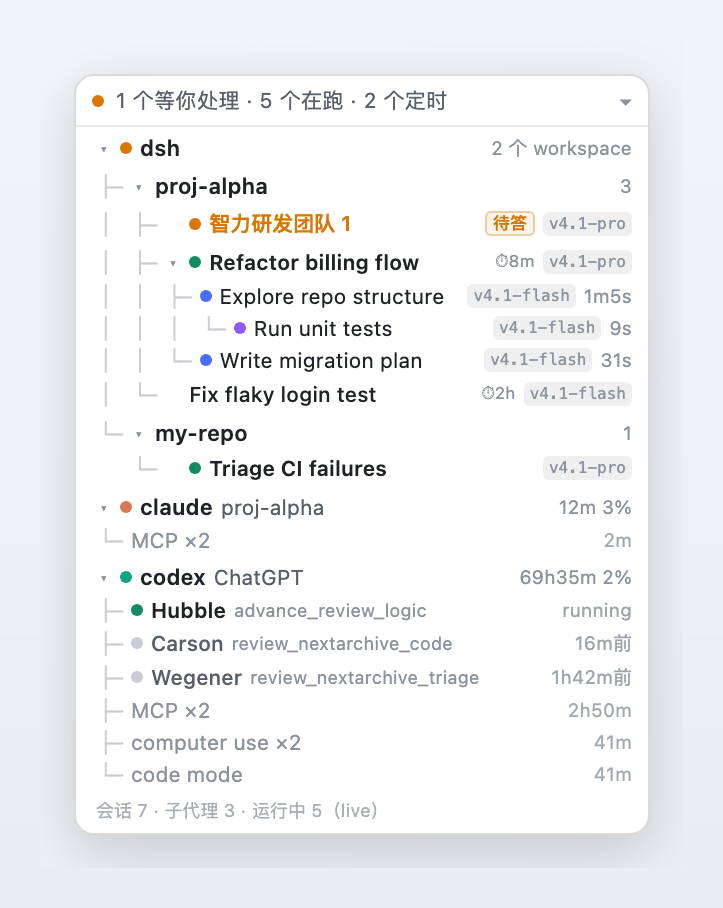
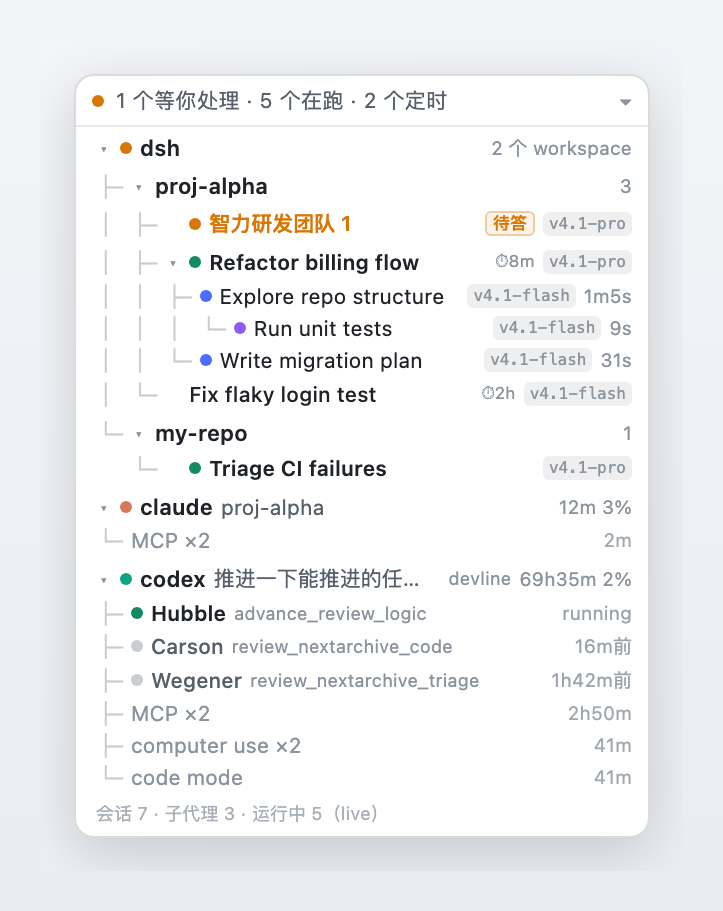
feat: codex 会话标题作为行名

diff --git a/index.js b/index.js
@@ -271,6 +271,88 @@ async function recentCodexMetas(now) {
   return metas;
 }
 
+/** 这些前缀是 codex 自己塞的上下文包裹，不算用户真正说的话。 */
+const PROMPT_SKIP =
+  /^\s*(<(environment_context|app-context|user_instructions|user-instructions|system|developer)|#\s*AGENTS\.md|<INSTRUCTIONS)/i;
+
+/** 从一行 rollout 事件里取「用户真正说的那句话」，取不到返回空串。 */
+export function userPromptOf(event) {
+  if (event === null || typeof event !== 'object') return '';
+  const payload = event.payload !== null && typeof event.payload === 'object' ? event.payload : {};
+  if (event.type === 'response_item' && payload.role === 'user') {
+    const content = Array.isArray(payload.content) ? payload.content : [];
+    for (const item of content) {
+      const text = item !== null && typeof item === 'object' && typeof item.text === 'string' ? item.text : '';
+      if (text !== '' && !PROMPT_SKIP.test(text)) return text;
+    }
+    return '';
+  }
+  if (event.type === 'event_msg' && payload.type === 'user_message' && typeof payload.message === 'string') {
+    return PROMPT_SKIP.test(payload.message) ? '' : payload.message;
+  }
+  return '';
+}
+
+/** 压成一行、截短，用来当行标题。 */
+export function shortPrompt(text, limit = 36) {
+  const flat = String(text || '').replace(/\s+/g, ' ').trim();
+  if (flat === '') return '';
+  return flat.length > limit ? `${flat.slice(0, limit - 1)}…` : flat;
+}
+
+/** 读 rollout 里第一条用户消息（最多读 2MB），拿不到就空串。 */
+export async function firstUserPrompt(path) {
+  let handle;
+  try {
+    handle = await open(path, 'r');
+  } catch (err) {
+    return '';
+  }
+  try {
+    let buffer = '';
+    const chunk = Buffer.allocUnsafe(65536);
+    let total = 0;
+    while (total < 2 * 1024 * 1024) {
+      const { bytesRead } = await handle.read(chunk, 0, chunk.length, total);
+      if (bytesRead <= 0) break;
+      total += bytesRead;
+      buffer += chunk.subarray(0, bytesRead).toString('utf8');
+      let newline = buffer.indexOf('\n');
+      while (newline >= 0) {
+        const line = buffer.slice(0, newline);
+        buffer = buffer.slice(newline + 1);
+        newline = buffer.indexOf('\n');
+        if (line.trim() === '') continue;
+        let event;
+        try {
+          event = JSON.parse(line);
+        } catch (err) {
+          continue;
+        }
+        const prompt = userPromptOf(event);
+        if (prompt !== '') return prompt;
+      }
+    }
+    return '';
+  } catch (err) {
+    return '';
+  } finally {
+    await handle.close().catch(() => {});
+  }
+}
+
+const titleCache = new Map();
+
+/** 某条 rollout 的会话标题（首条用户消息，截短；按 path+mtime 缓存）。 */
+export async function promptTitleOf(root) {
+  if (root === undefined || typeof root.path !== 'string') return '';
+  const hit = titleCache.get(root.path);
+  if (hit !== undefined && hit.mtime === root.mtime) return hit.title;
+  const title = shortPrompt(await firstUserPrompt(root.path));
+  titleCache.set(root.path, { mtime: root.mtime, title });
+  return title;
+}
+
 /** 导出给自检/排查用：本机最近 rollout 的 meta 列表。 */
 export async function collectCodexMetas(now = Date.now()) {
   return await recentCodexMetas(now);
@@ -318,7 +400,8 @@ export function codexThreadsUnder(metas, rootId, now) {
  */
 export function pickCodexRoot(metas, cwd, options = {}) {
   if (!Array.isArray(metas)) return undefined;
-  const roots = metas.filter((meta) => meta && !meta.isSubagent);
+  const exclude = options !== null && typeof options === 'object' && options.exclude instanceof Set ? options.exclude : null;
+  const roots = metas.filter((meta) => meta && !meta.isSubagent && (exclude === null || !exclude.has(meta.id)));
   if (roots.length === 0) return undefined;
   const sorted = roots.slice().sort((a, b) => b.mtime - a.mtime);
   if (typeof cwd === 'string' && cwd !== '' && cwd !== '/') {
@@ -358,20 +441,27 @@ async function snapshot() {
   const rows = buildProcessRoots(parseProcessTable(table));
   const codexMetas = rows.some((row) => row.kind === 'codex') ? await recentCodexMetas(now) : [];
   const processes = [];
+  const claimedRoots = new Set();
   for (const row of rows) {
     let cwd = await cwdOf(row.pid);
     if (cwd === '' || cwd === '/') cwd = argCwd(row.command) || cwd;
     const root =
       row.kind === 'codex'
-        ? pickCodexRoot(codexMetas, cwd, { preferDesktop: /ChatGPT\.app|CodexCLI\.app|Codex\.app/i.test(row.command) })
+        ? pickCodexRoot(codexMetas, cwd, {
+            preferDesktop: /ChatGPT\.app|CodexCLI\.app|Codex\.app/i.test(row.command),
+            exclude: claimedRoots,
+          })
         : undefined;
+    if (root !== undefined) claimedRoots.add(root.id);
+    const title = root === undefined ? '' : await promptTitleOf(root);
     processes.push({
       pid: row.pid,
       kind: row.kind,
       elapsedSeconds: row.elapsedSeconds,
       cpu: row.cpu,
       cwd,
-      label: displayLabel(row.command, cwd),
+      label: title !== '' ? title : displayLabel(row.command, cwd),
+      sessionTitle: title,
       children: row.children,
       threads: root === undefined ? [] : codexThreadsUnder(codexMetas, root.id, now),
     });

diff --git a/client.js b/client.js
@@ -787,9 +787,9 @@ window.__ModuleLoader__.load({
                 if (children.length === 0) return;
                 toggle(procKey);
               },
-              title: `${proc.kind} · pid ${proc.pid}\n${proc.cwd || ''}${
-                children.length > 0 ? `\n${children.length} 个子进程` : ''
-              }`,
+              title: `${proc.kind} · pid ${proc.pid}${
+                proc.sessionTitle ? `\n${proc.sessionTitle}` : ''
+              }${proc.cwd ? `\n${proc.cwd}` : ''}${children.length > 0 ? `\n${children.length} 个子进程` : ''}`,
               style: {
                 display: 'flex',
                 alignItems: 'center',
@@ -811,6 +811,13 @@ window.__ModuleLoader__.load({
               fontSize: 10.5,
               color: 'var(--dsw-alias-label-secondary)',
             }),
+            proc.sessionTitle && proc.cwd && proc.cwd !== '/' && proc.cwd !== ''
+              ? clampSpan(baseName(proc.cwd), {
+                  flex: 'none',
+                  fontSize: 9,
+                  color: 'var(--dsw-alias-label-tertiary)',
+                })
+              : null,
             h(
               'span',
               { style: { flex: 'none', fontSize: 9.5, color: 'var(--dsw-alias-label-tertiary)' } },

diff --git a/README.md b/README.md
@@ -27,6 +27,9 @@
 - **本机外部 agent 进程（也是树）**：插件宿主半部提供只读接口，用 `ps` + `lsof` 找到本机正在跑的 **claude / codex CLI**，
   再按 `ppid` 把它们的子进程挂成子树（如 codex 的 `computer use ×4` / `MCP ×3` / `code mode`）。它们是**和 `dsh` 同级的顶层 agent 节点**，行规格完全一致，可折叠。
   ChatGPT 桌面端里的 `Codex Framework` 辅助进程本身不会被误认成 CLI。
+- **codex 的行名是它自己的会话标题**：从 rollout 里取第一条**真实**用户消息（跳过 `environment_context` /
+  `AGENTS.md` 这类上下文注入）当行名，比如 `codex 推进一下能推进的任务…  devline`；取不到才回落到目录名。
+  多个 codex 进程同 cwd 时会各认领一条会话，不会三行同名。
 - **codex 的子对话也看得见**：读 codex 自己的会话记录（`~/.codex/sessions/**/rollout-*.jsonl` 的第一行
   `session_meta`），按 `parent_thread_id` 还原它的 subagent 线程树，挂在 codex 那行下面——
   `● Hubble advance_review_logic  running` / `● Carson review_nextarchive_code  16m前`。
@@ -77,6 +80,7 @@ dsh plugin --profile web add "$PWD"
 | `├─ ▾ ● Refactor billing flow  ⏱8m  v4.1-pro` | 顶层对话在跑（绿点），8 分钟后有下一次定时，用 v4.1-pro |
 | `│  ├─ ● Explore repo structure  v4.1-flash  1m5s` | 它的 subagent（蓝点），已跑 1 分 05 秒 |
 | `│  │  └─ ● Run unit tests  v4.1-flash  9s` | 孙代理（紫点） |
+| `▾ ● codex 推进一下能推进的任务…  devline` | codex 的**会话标题**（首条真实用户消息）+ 目录名；不是目录名兜底 |
 | `▾ ● claude proj-alpha         12m 3%` | 本机另一个 agent（和 `dsh` 同级）：claude CLI，工作目录 `proj-alpha`，跑了 12 分钟、3% CPU |
 | `│  └─ computer use ×2            41m` | 它的子进程，自动按种类归组（`×N` + 最长的那个时长） |
 | `│  ├─ ● Hubble advance_review_logic  running` | codex 的子对话（subagent 线程）：昵称 + agent 路径，右边是「正在工作 / 最后活动多久前」 |

diff --git a/README.en.md b/README.en.md
@@ -22,6 +22,7 @@ at which depth, on which model, for how long, and when its next scheduled run fi
 - **Scheduled-task countdown** — reads `schedule.catalog()` from Automation tasks (the `remote.schedule` service, with a `ctx.get` fallback while its namespace is not mounted yet); sessions driven by a schedule are listed even while idle, with `⏱8m / ⏱2h / ⏱3d` and a `N running · M scheduled` headline.
 - **Sessions that need your call come first** — when an agent asks a question, waits for an approval, or waits for a plan review (`pendingInteraction` = `question` / `approval` / `plan-review`), that row turns **amber**, carries a `待答 / 待批 / 待审` badge and **sorts above running rows**. Previously such a session disappeared because it was no longer running.
 - **Local external agent processes, also as a tree** — the plugin's host half exposes a read-only endpoint that finds running **claude / codex CLIs** via `ps` + `lsof` and nests their children by `ppid` (e.g. codex's `computer use ×4` / `MCP ×3` / `code mode`). They show up as **top-level agents next to `dsh`**, with exactly the same row spec. ChatGPT desktop's `Codex Framework` helpers are not mistaken for CLIs themselves.
+- **codex rows are named after their own session** — the first *real* user message from the rollout (skipping `environment_context` / `AGENTS.md` injections), e.g. `codex 推进一下能推进的任务…  devline`, falling back to the directory name; processes sharing one cwd claim distinct sessions, so rows never share a name.
 - **codex sub-conversations are visible too** — reads codex's own session records (`~/.codex/sessions/**/rollout-*.jsonl`, first `session_meta` line) and rebuilds its subagent threads by `parent_thread_id`, hanging them under the codex row: `● Hubble advance_review_logic running` / `● Carson review_nextarchive_code 16m前`. Local read-only, no network, nothing leaves the machine. (Claude's sidechain layout differs and is not parsed yet.)
 - **Click to jump** — `subagentAddress()` + `uiWorkspace.openSession()`, including subagents.
 - **Draggable, remembers its position** — stored in `localStorage`.

diff --git a/CHANGELOG.md b/CHANGELOG.md
@@ -4,6 +4,7 @@
 
 - **「等你拍板」的会话不再消失**：读实时状态里的 `pendingInteraction`（`question` / `approval` / `plan-review`），这类会话即使没在跑也会列出，琥珀色圆点 + `待答 / 待批 / 待审` 徽标，排在在跑的前面；标题栏变成「N 个等你处理 · M 个在跑 · K 个定时」。
 - **定时任务显示修复**：`remote.schedule` 是别的客户端插件挂上来的命名空间服务，只读 `ctx.remote.schedule` 在它还没挂上时会拿到 undefined，导致定时任务整段消失；现在用 `ctx.get('remote.schedule')` 兜底并继续轮询。
+- **codex 行名改成会话标题**：从 rollout 里取第一条真实用户消息（跳过 `environment_context` / `AGENTS.md` 注入）当行名，取不到才回落目录名；右侧加灰色目录小标签；同 cwd 的多个 codex 进程按时间各认领一条会话，避免多行同名。
 - **codex 的子对话**：读 `~/.codex/sessions/**/rollout-*.jsonl` 的 `session_meta`，按 `parent_thread_id` 还原 subagent 线程树，挂在 codex 行下面（昵称 + agent 路径 + 最后活动时间 / `running`）；按 cwd、cwd 前缀、桌面端 originator 三级匹配主线程。
 - 顶层改成「本机 agent 列表」：`dsh` 与 `claude` / `codex` 同级，各自展开自己的子树；行规格统一。
 

diff --git a/docs/manual.md b/docs/manual.md
@@ -152,6 +152,18 @@ codex（CLI 和 ChatGPT 桌面端）每开一个会话都会写一条 rollout：
   ChatGPT 桌面端进程 cwd 常常是 `/`，这时优先挑 `originator` 带 `Desktop` 的会话。
 - 最多 8 个子对话、最深 3 层。只读本机、不联网、不外发。
 
+### 6.3 codex 那行的名字
+
+行名不是目录名，而是**这条 codex 会话的第一句真实需求**（跳过 codex 自己塞的 `environment_context`、
+`AGENTS.md instructions` 这类上下文），后面跟一个灰色的目录小标签：
+
+```
+▾ ● codex 推进一下能推进的任务，看看流水线…   devline   69h35m 2%
+```
+
+- 取不到（rollout 刚建、还没写用户消息）才回落到目录名 / `ChatGPT`。
+- 同一 cwd 下有多个 codex 进程时，按时间各认领一条会话，所以不会出现两行同名。
+
 ## 7. 交互
 
 | 操作 | 效果 |

diff --git a/docs/manual.en.md b/docs/manual.en.md
@@ -151,6 +151,18 @@ hanging it under the codex row:
   processes the cwd is usually `/`, so a session whose `originator` contains `Desktop` wins.
 - At most 8 sub-conversations, 3 levels deep. Local read-only, no network.
 
+### 6.3 The codex row's name
+
+The row is named after **the first real request of that codex session** (skipping codex's own
+`environment_context` / `AGENTS.md instructions` injections), followed by a grey directory chip:
+
+```
+▾ ● codex 推进一下能推进的任务，看看流水线…   devline   69h35m 2%
+```
+
+- Falls back to the directory name / `ChatGPT` only when the rollout has no user message yet.
+- With several codex processes in one cwd, each claims a distinct session by recency, so rows never share a name.
+
 ## 7. Interaction
 
 | Action | Effect |
